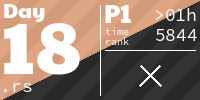
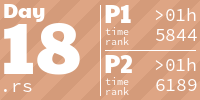
better

diff --git a/src/day18.rs b/src/day18.rs
@@ -1,4 +1,4 @@
-use std::{collections::HashMap, time::Instant};
+use std::collections::{HashMap, HashSet};
 
 use crate::utils::*;
 
@@ -80,6 +80,30 @@ impl Memory {
         }
         max_len
     }
+
+    pub fn has_path_to_escape(&self, take: usize) -> bool {
+        let matrix = self.to_matrix(take);
+        let mut visited = HashSet::new();
+        let mut to_explore = vec![V2::new(0, 0)];
+        let exit = V2::new(self.width as i32 - 1, self.height as i32 - 1);
+
+        while let Some(pos) = to_explore.pop() {
+            if pos == exit {
+                return true;
+            }
+            if visited.contains(&pos) {
+                continue;
+            }
+            visited.insert(pos);
+
+            for nx in pos.neighbors() {
+                if matrix.get(&nx) == Some('.') {
+                    to_explore.push(nx);
+                }
+            }
+        }
+        false
+    }
 }
 
 fn p1(input: &str, take: usize) -> usize {
@@ -95,17 +119,8 @@ fn p2(input: &str) -> V2 {
     let memory = Memory::from_str(input, usize::MAX);
 
     let mut take = 0;
-    let start = Instant::now();
-    loop {
-        let steps = memory.steps_to_escape(take);
-        if steps == usize::MAX {
-            // we are blocked
-            break;
-        }
+    while memory.has_path_to_escape(take) {
         take += 1;
-        if take % 10 == 0 {
-            println!("[{}] {}", fmt_duration(start.elapsed()), take);
-        }
     }
     memory.bytes[take - 1]
 }
@@ -118,8 +133,6 @@ pub fn run() {
     pp_day("day18: RAM Run");
     time_it(|input| p1(input, 12), "p1", "data/18_sample.txt");
     time_it(|input| p1(input, 1024), "p1", "data/18_input.txt");
-    // time_it(|input| p2(input, 20), "p2", "data/18_sample.txt");
-    // time_it(p1, "p1", "data/18_input.txt");
     time_it(p2, "p2", "data/18_sample.txt");
     time_it(p2, "p2", "data/18_input.txt");
 }
@@ -132,6 +145,7 @@ mod tests {
     fn test() {
         assert_eq!(run_it(|input| p1(input, 12), "data/18_sample.txt"), 22);
         assert_eq!(run_it(|input| p1(input, 12), "data/18_input.txt"), 280);
-        assert_eq!(run_it(p2, "data/18_input.txt"), V2::new(6, 1));
+        assert_eq!(run_it(p2, "data/18_sample.txt"), V2::new(6, 1));
+        assert_eq!(run_it(p2, "data/18_input.txt"), V2::new(28, 56));
     }
 }

diff --git a/README.md b/README.md
@@ -1,6 +1,6 @@
 <!-- AOC TILES BEGIN -->
 <h1 align="center">
-  2024 - 35 ⭐ - Rust
+  2024 - 36 ⭐ - Rust
 </h1>
 <a href="src/day01.rs">
   <img src=".aoc_tiles/tiles/2024/01.png" width="161px">
